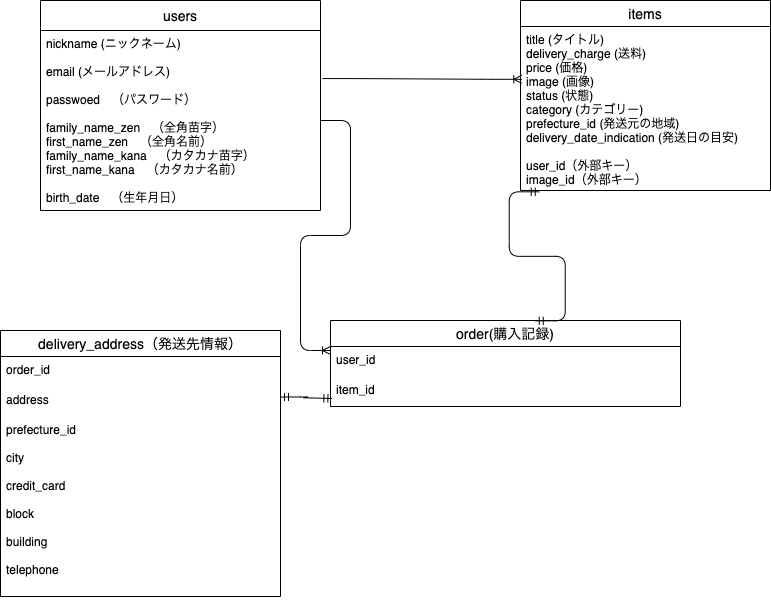
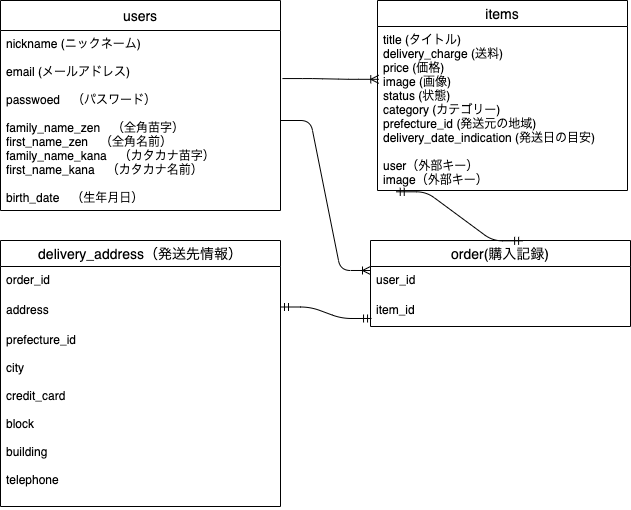
レビューを受けての変更②

diff --git a/README.md b/README.md
@@ -20,19 +20,18 @@
 
 
 ## items テーブル
-
-| Column             | Type      | Options     |
-| ------             | ------    | ----------- |
-| title              | string    | null: false |
-|description         | text      | null: false |
-|category            | string    | null: false |
-|status              | string    | null: false |
-|delivery_charge     | string    | null: false |
-|prefecture_id       |integer    | null: false |
-|delivery_date_indication|string | null: false |
-|price               | integer   | null: false | 
-| image              | ActiveStorage           |
-| user               | references              |
+ 
+| Column                    | Type       | Options     |
+| ------                    | ------     | ----------- |
+| title                     | string     | null: false |
+|description                | text       | null: false |
+|category                   | string     | null: false |
+|status_id                  | integer    | null: false |
+|delivery_charge_id         | integer    | null: false |
+|prefecture_id              | integer    | null: false |
+|delivery_date_indication_id| integer    | null: false |
+|price                      | integer    | null: false | 
+| user                      | references | foreign_key: true |
 
 ### Association
 - belongs_to :user
@@ -48,19 +47,19 @@
 | Column | Type       | Options                        |
 | ------ | ---------- | ------------------------------ |
 | user   | references | null: false, foreign_key: true |
-|items   | references | null: false, foreign_key: true |
+|item   | references | null: false, foreign_key: true |
 
 ### Association
 
 - belongs_to :item
 - belongs_to :user
-- has_one :order
+- has_one :delivery_address
 
 
 
-## delivery_address テーブル
+## delivery_addresses テーブル
 | Column         | Type    | Options     |
-| -------------  | ------- | null: false |
+| -------------  | ------- | -------     |
 | address        | string  | null: false |
 |prefecture_id       |integer    | null: false |
 | city           | string  | null: false |
